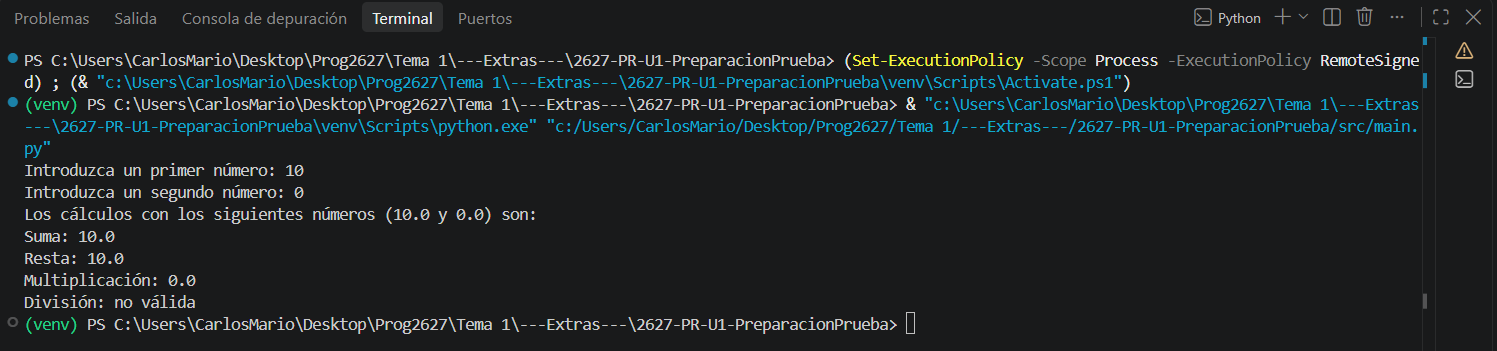
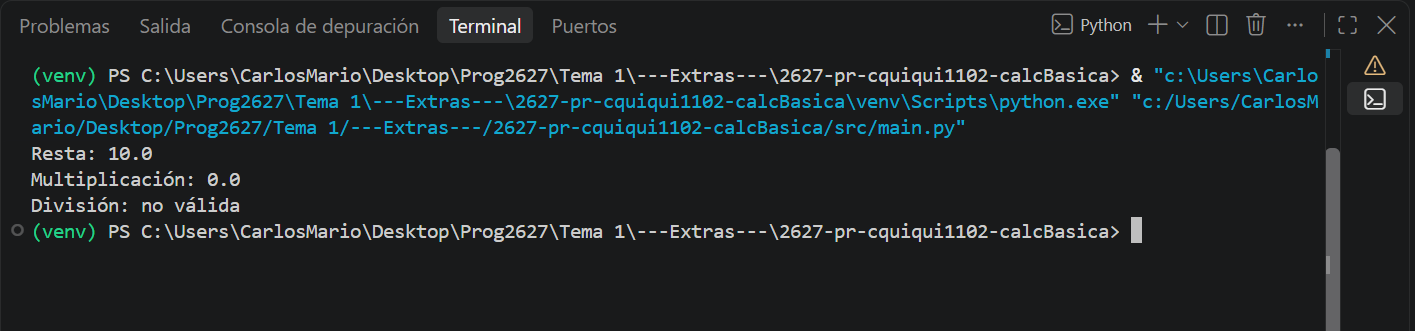
Cambio de imágenes y corrección en 'main()'

diff --git a/src/main.py b/src/main.py
@@ -102,7 +102,7 @@ def main():
     print(f"Suma: {sumar(numero1, numero2)}")
     print(f"Resta: {restar(numero1, numero2)}")
     print(f"Multiplicación: {multiplicar(numero1, numero2)}")
-    print(f"División: {dividir(numero1, numero2):.4f}")
+    print(f"División: {dividir(numero1, numero2)}")
     
 if __name__ == "__main__":
     main()

diff --git a/README.md b/README.md
@@ -53,6 +53,6 @@ Entrega en esta tarea de Moodle la **URL** de tu repositorio público de GitHub.
 
 La calculadora funciona perfectamente. Si el divisor es 0, saldrá un mensaje sobre división no válida.
 
-![división válida](imagen/resultado1.png)
+![División válida](imagen/resultado1.png)
 
-![división no válida](imagen/resultado2.png)
+![División no válida](imagen/resultado2.png)
